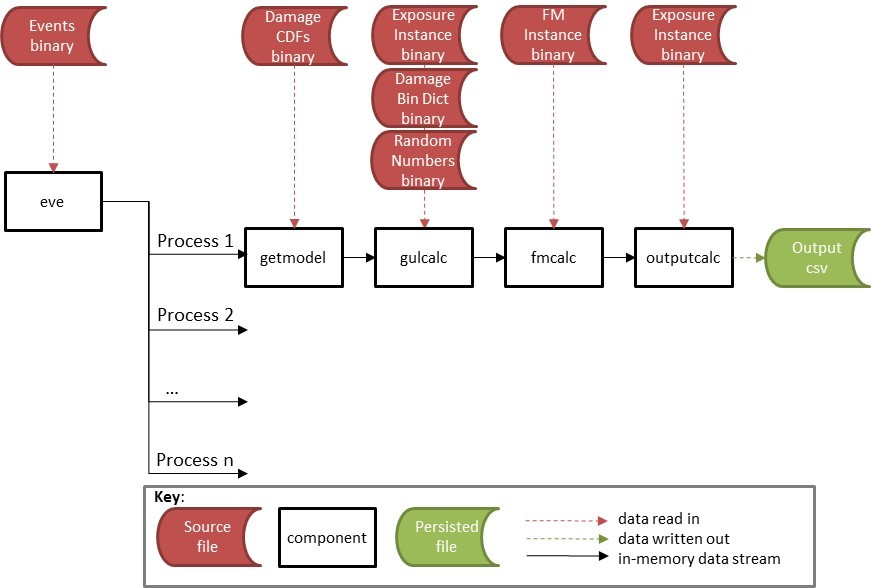
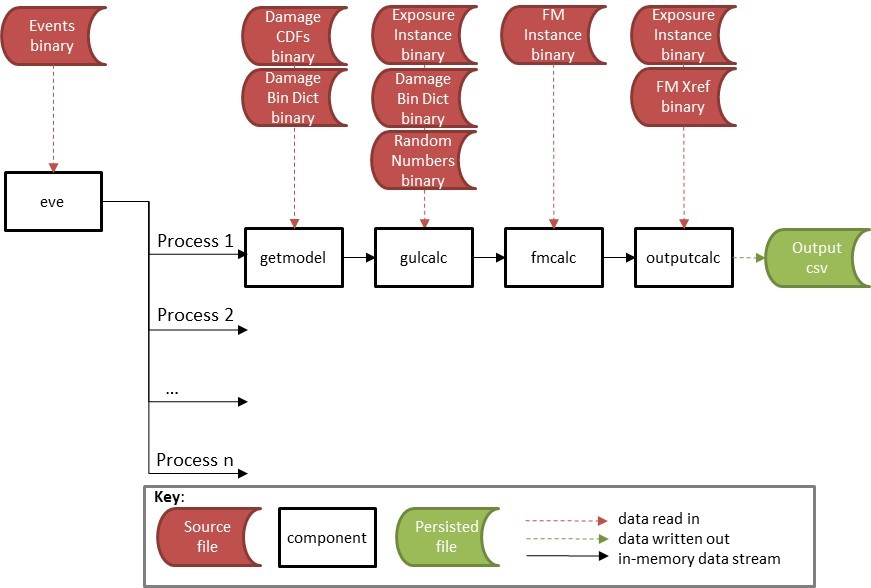
updated documentation

Changed region(s): [[0.279, 0.0918, 0.403, 0.2143], [0.713, 0.0918, 0.837, 0.2143]]

diff --git a/docs/ReferenceModel.md b/docs/ReferenceModel.md
@@ -1,0 +1,269 @@
+# Reference Model
+
+This section provides an explanation of the reference model of the SDK, which is an implementation of each of the components in the framework. 
+
+The set of core components provided in this release is as follows;
+* **eve** is the event distributing utility. Based on the number of events in the input and the number of processes specified as a parameter, eve outputs subsets of the events as a stream. The output streams into getmodel.
+* **getmodel** generates a stream of effective damageability cdfs for the input stream of events. The reference example reads in Oasis format damage cdf data from binary file. getmodel streams into gulcalc or can be output to a binary file.
+* **gulcalc** performs the ground up loss sampling calculations and numerical integration. The output is the Oasis kernel gul sample table. This can be output to a binary file or streamed into  fmcalc or outputcalc.
+* **fmcalc** performs the insured loss calculations on the gul samples and the mean ground up loss. The output is the Oasis format loss sample table. The functionality covered in fmcalc is the same as the current financial Module in Oasis R1.4 (see R1.2 Financial Module documentation for more information).  The result can be output to a binary file or streamed into outputcalc.
+* **outputcalc** performs an output analysis on the gul or loss samples. The reference example is an event loss table containing TIV, sample mean and standard deviation for each event at portfolio/programme summary level. The results are written directly into csv file as there is no downstream processing.
+
+In addition, some components which convert the binary output of each calculation step to csv format are provided.
+* **cdftocsv** is a utility to convert binary format CDFs to a csv. getmodel standard output can be streamed directly into cdftocsv, or a binary file of the same format can be input.
+* **gultocsv** is a utility to convert binary format GULs to a csv. gulcalc standard output can be streamed directly into gultocsv, or a binary file of the same format can be input.
+* **fmtocsv** is a utility to convert binary format losses to a csv. fmcalc standard output can be streamed directly into fmtocsv, or a binary file of the same format can be input.
+
+Figure 1 shows the data stream workflow of the reference model with its particular internal data files.
+
+##### Figure 1. Reference Model Workflow
+![alt text](https://github.com/OasisLMF/ktools/blob/master/docs/img/KtoolsWorkflow.jpg "Reference Model Workflow")
+
+The input data for the reference components, shown as red source files, are the events, Damage CDFs, Exposure Instance, Damage Bin Dictionary and FM Instance.  These are Oasis concepts with Oasis format data as outlined below. 
+
+Figure 2 shows the workflows for the data conversion components.
+
+##### Figure 2. Data Conversion Workflows
+![alt text](https://github.com/OasisLMF/ktools/blob/master/docs/img/Dbtools2.jpg "Data Conversion Workflows")
+
+```
+Note that no examples of the component which generates the binary files have been provided in the SDK
+as yet. This component is, in general, specific to the technical environment and may also be calling 
+the data from a remote server as an API. However an example of 'gendata' is provided with Oasis R1.4 
+in a github project called 'oatools' which reads the input data from a SQL Server database.
+```
+
+The following sections explain the usage and internal processes and data requirements of each of the reference components. The standard input and output data streams for the components are generic and are covered in the Specification.
+
+#### getmodel
+
+getmodel generates a stream of effective damageability distributions (cdfs) from an input list of events. Specifically, it reads pre-generated Oasis format cdfs and converts them into a binary stream. The source input data must have been generated as binary files by a separate program.
+
+This is reference example of the class of programs which generates the damage distributions for an event set and streams them into memory. It is envisaged that model developers who wish to use the SDK as a back-end calculator of their existing platforms can write their own version of getmodel, reading in their own source data and converting it into the standard output stream. As long as the standard input and output structures are adhered to, the program can be written in any langauge and read any input data.
+
+##### Stream_id
+
+| Byte 1 | Bytes 2-4 |  Description                                   |
+|:-------|-----------|:-----------------------------------------------|
+|    0   |     1     |  getmodel reference example                    |
+
+##### Parameters
+The single parameter is chunk_id (int). 
+
+##### Usage
+```
+$ [stdin component] | getmodel [parameters] | [stout component]
+$ [stdin component] | getmodel [parameters] > [stdout].bin
+$ getmodel [parameters] < [stdin].bin > [stdout].bin
+```
+
+##### Example
+```
+$ eve 1 1 1 | getmodel 1 | gulcalc -C1 -S100
+$ eve 1 1 1 | getmodel 1 > cdf_chunk1.bin
+$ getmodel 1 < e_chunk1_data.bin > cdf_chunk1.bin 
+```
+
+##### Internal data
+The program requires the damage bin dictionary for the model, the Oasis damage cdf in chunks, and an index file for each cdf chunk as binary files. The files are picked up from the directory where the program is invoked and have the following filenames;
+* damage_bin_dictionary.bin
+
+And in a cdf specific subdirectory;
+* cdf/damage_cdf_chunk_{chunk_id}.bin
+* cdf/damage_cdf_chunk_{chunk_id}.idx
+
+The data structure of damage_bin_dictionary.bin is as follows;
+
+| Name              | Type   |  Bytes | Description                                                   | Example     |
+|:------------------|--------|--------| :-------------------------------------------------------------|------------:|
+| bin_index         | int    |    4   | Identifier of the damage bin                                  |     1       |
+| bin_from          | float  |    4   | Lower damage threshold for the bin                            |   0.01      |
+| bin_to            | float  |    4   | Upper damage threshold for the bin                            |   0.02      |
+| interpolation     | float  |    4   | Interpolation damage value for the bin (usually the mid-point)|   0.015     |
+| interval_type     | int    |    4   | Identifier of the interval type, e.g. closed, open            |    1201     |   
+
+The data structure of damage_cdf_chunk_{chunk_id}.bin is as follows;
+
+| Name              | Type   |  Bytes | Description                                                   | Example     |
+|:------------------|--------|--------| :-------------------------------------------------------------|------------:|
+| event_id          | int    |    4   | Oasis event_id                                                |     1       |
+| areaperil_id      | int    |    4   | Oasis areaperil_id                                            |   4545      |
+| vulnerability_id  | int    |    4   | Oasis vulnerability_id                                        |   345456    |
+| bin_index         | int    |    4   | Identifier of the damage bin                                  |     10      |
+| prob_to           | float  |    4   | The cumulative probability at the upper damage bin threshold  |    0.765    | 
+
+The cdfs are ordered by event and streamed out in blocks for each event.  The index file damage_cdf_chunk_{chunk_id}.bin contains the position of each new event_id in the stream, for faster processing.
+
+Note that the prob_from field from the existing database table structure of Oasis damage cdfs has been dropped to minimise the size of the table, as it is implied from the prior record prob_to field.
+
+##### Calculation
+The program reads the damage bin mid-point (interpolation field) from the damage bin dictionary and includes it as a new field in the CDF stream as 'bin_mean'.  This field is the conditional mean damage for the bin and it is used to facilitate the calculation of mean and standard deviation in the gulcalc component. No calculations are performed except to construct the standard output stream.
+
+#### gulcalc
+The gulcalc program performs Monte Carlo sampling of ground up loss and calculates mean and standard deviation by numerical integration of the cdfs. The sampling methodology of Oasis classic has been extended beyond linear interpolation to include bin value sampling and quadratic interpolation. This supports damage bin intervals which represent a single discrete damage value, and damage distributions with cdfs that are described by a piecewise quadratic function. 
+
+##### Stream_id
+
+| Byte 1 | Bytes 2-4 |  Description                                   |
+|:-------|-----------|:-----------------------------------------------|
+|    1   |     1     |  gulcalc reference example                     |
+
+##### Parameters
+The parameters are;
+* -C chunk_id
+* -S number of samples
+* -R reconciliation mode (optional)
+* -r read random numbers from file (optional)
+
+##### Usage
+```
+$ [stdin component] | gulcalc [parameters] | [stout component]
+$ [stdin component] | gulcalc [parameters] > [stdout].bin
+$ gulcalc [parameters] < [stdin].bin > [stdout].bin
+```
+
+##### Example
+```
+$ eve 1 1 1 | getmodel 1 | gulcalc -C1 -S100 | fmcalc
+$ eve 1 1 1 | getmodel 1 | gulcalc -C1 -S100 > gul_chunk1.bin
+$ gulcalc -C1 -S100 < cdf_chunk1.bin > gul_chunk1.bin 
+```
+
+##### Internal data
+The program requires the damage bin dictionary for the model and the exposure instance table, both as binary files. The files are picked up from the directory where the program is invoked and have the following filenames;
+* damage_bin_dictionary.bin
+* exposures.bin
+
+If the user specifies -r as a parameter, then the program also picks up a random number file from the working directory. The filename is;
+random_{chunk_id}.bin
+
+The data structure of damage_bin_dictionary.bin is the same as for the getmodel component given above, and the data structure for the exposure instance is as follows;
+
+| Name              | Type   |  Bytes | Description                                                   | Example     |
+|:------------------|--------|--------| :-------------------------------------------------------------|------------:|
+| item_id           | int    |    4   | Identifier of the exposure item                               |     1       |
+| areaperil_id      | int    |    4   | Identifier of the locator and peril of the item               |   4545      |
+| vulnerability_id  | int    |    4   | Identifier of the vulnerability distribution of the item      |   345456    |
+| tiv               | float  |    4   | The total insured value of the item                           |   200000    |
+| group_id          | int    |    4   | Identifier of the correlation group of the item               |    1        |   
+
+The structure of the random number table is as follows;
+
+| Name              | Type   |  Bytes | Description                                                   | Example     |
+|:------------------|--------|--------| :-------------------------------------------------------------|------------:|
+| rand              | float  |    4   | Random number between 0 and 1                                 |  0.75875    |
+
+##### Calculation
+The program constructs a cdf for each item, based on matching the areaperil_id and vulnerability_id from the stdin and the exposure data. The stdin stream is a block of cdfs which are ordered by event.
+
+For each item cdf and for the number of samples specified, the program reads a random number from the random number file and uses it to sample ground up loss from the cdf using one of three methods. If a random number file is not provided, a random number is generated on the fly for each event and group of items which have a common group_id using the Mersenne twister psuedo random number generator.
+
+For a given damage interval corresponding to a cumulative probability interval that each random number falls within;
+* If the conditional mean damage (of the cdf) is the mid-point of the damage bin interval (of the damage bin dictionary) then the gulcalc program performs linear interpolation. 
+* If the conditional mean damage is equal to the lower and upper damage threshold of the damage bin interval (i.e the bin represents a damage value, not a range) then that value is sampled.
+* Else, the gulcalc program performs quadrative interpolation.
+
+An example of the three cases and methods is given below;
+ 
+| bin_from | bin_to |  bin_mean | Method used             |
+|:---------|--------|-----------| :-----------------------|
+|    0.1   |  0.2   |    0.15   | Linear interpolation    |
+|    0.1   |  0.1   |    0.1    | Sample bin value        |
+|    0.1   |  0.2   |    0.14   | Quadratic interpolation |
+
+Each sampled damage is multiplied by the item TIV and output to the stdout stream.
+
+A second calculation which occurs in the gulcalc program is of the mean and standard deviation of ground up loss. For each cdf, the mean and standard deviation of damage is calculated by numerical integration and the result is multiplied by the item TIV. The results are output to the stdout stream as IDX=0 (mean) and IDX=-1 (standard deviation), for each item and event.
+
+#### fmcalc
+blah blah
+
+##### Stream_id
+
+| Byte 1 | Bytes 2-4 |  Description                                   |
+|:-------|-----------|:-----------------------------------------------|
+|    2   |     1     |  fmcalc reference example                     |
+
+##### Parameters
+There are no parameters as all of the information is taken from the gul stdout stream and internal data.
+
+##### Usage
+```
+$ [stdin component] | fmcalc | [stout component]
+$ [stdin component] | fmcalc > [stdout].bin
+$ fmcalc < [stdin].bin > [stdout].bin
+```
+
+##### Example
+```
+$ eve 1 1 1 | getmodel 1 | gulcalc -C1 -S100 | fmcalc | outputcalc > output.csv
+$ eve 1 1 1 | getmodel 1 | gulcalc -C1 -S100 | fmcalc > fm_chunk1.bin
+$ fmcalc < gul_chunk1.bin > fm_chunk1.bin 
+```
+
+##### Internal data
+The program requires the FM Instance data, which is the Oasis native format data tables which describe an insurance programme. These four tables have been combined into one which has the following data structure;
+
+| Name                     | Type   |  Bytes | Description                                    | Example     |
+|:-------------------------|--------|--------| :----------------------------------------------|------------:|
+| item_id                  | int    |    4   | Identifier of the exposure item                |    56745    |
+| agg_id                   | int    |    4   | Oasis Financial Module agg_id                  |     546     |
+| prog_id                  | int    |    4   | Oasis Financial Module prog_id                 |     4       |
+| level_id                 | int    |    4   | Oasis Financial Module level_id                |     1       |
+| policytc_id              | int    |    4   | Oasis Financial Module policytc_id             |     34      |
+| layer_id                 | int    |    4   | Oasis Financial Module layer_id                |      1      |
+| calcrule_id              | int    |    4   | Oasis Financial Module calcrule_id             |      2      |
+| allocrule_id             | int    |    4   | Oasis Financial Module allocrule_id            |      0      |
+| deductible               | float  |    4   | Deductible                                     |   50        |
+| limit                    | float  |    4   | Limit                                          |   100000    |
+| share_prop_of_lim        | float  |    4   | Share/participation as a proportion of limit   |   0.25      |
+| deductible_prop_of_loss  | float  |    4   | Deductible as a proportion of loss             |   0.05      |
+| limit_prop_of_loss       | float  |    4   | Limit as a proportion of loss                  |   0.5       |
+| deductible_prop_of_tiv   | float  |    4   | Deductible as a proportion of TIV              |   0.05      |
+| limit_prop_of_tiv        | float  |    4   | Limit as a proportion of TIV                   |   0.8       |
+| deductible_prop_of_limit | float  |    4   | Deductible as a proportion of limit            |   0.1       |
+
+
+##### Calculation
+fmcalc performs the same calculations as the Oasis Financial Module in R1.4.  Information about the Oasis FinancialModule can be found on the public area of the Oasis Loss Modelling Framework website, and detailed information and examples are available to Oasis community members in the members area.
+
+#### outputcalc
+The reference example of an output produces an event loss table 'ELT' for either ground up loss or insured losses.
+
+##### Stream_id
+
+There is no output stream_id, the results table is exported directly to csv.
+
+##### Parameters
+There are no parameters as all of the information is taken from the input stream and internal data.
+
+##### Usage
+Either gulcalc or fmcalc stdout can be input streams to outputcalc
+```
+$ [stdin component] | outputcalc | [output].csv
+$ outputcalc < [stdin].bin > [output].csv
+```
+
+##### Example
+Either gulcalc or fmcalc stdout streams can be input streams to outputcalc. For example;
+```
+$ eve 1 1 1 | getmodel 1 | gulcalc -C1 -S100 | outputcalc > output.csv
+$ eve 1 1 1 | getmodel 1 | gulcalc -C1 -S100 | fmcalc | outputcalc > output.csv
+$ outputcalc < gul.bin > output.csv
+$ outputcalc < fm.bin > output.csv
+```
+
+##### Internal data
+The program requires the exposure instance table as a binary file, and for fmcalc input it requires an additional cross reference file to relate the output_id from the fm stdout stream (which represents an abstract grouping of exposure items) back to the original item_id. This file is picked up from the fm subdirectory;
+
+fm/fmxref.bin
+
+The data structure of exposures.bin is given in the gulcalc section above, and the data structure of fmxref.bin is as follows;
+
+| Name                        | Type   |  Bytes | Description                                    | Example     |
+|:----------------------------|--------|--------| :----------------------------------------------|------------:|
+| item_id                     | int    |    4   | Identifier of the exposure item                |    56745    |
+| output_id                   | int    |    4   | Oasis Financial Module output_id               |     546     |
+
+##### Calculation
+The program sums the sampled losses from either gulcalc stream or fmstream across the portfolio/programme by event and sample, and then computes sample mean and standard deviation. It reads the TIVs from the exposure instance table and sums them for the group of items affected by each event.

diff --git a/docs/Contents.md b/docs/Contents.md
@@ -3,6 +3,6 @@
 ##### 1. Introduction to the Specification
 ##### 2. [Data streaming architecture overview](Overview.md)
 ##### 3. [Specification](DataStructures.md)
-##### 4. [Reference model](getmodel.md)
-##### 5. Coding philosopy
+##### 4. [Reference model](ReferenceModel.md)
+##### 5. Coding philosophy
 ##### 6. [Planned work](PlannedWork.md)
